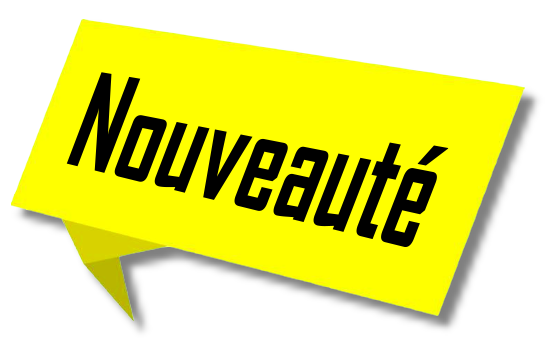
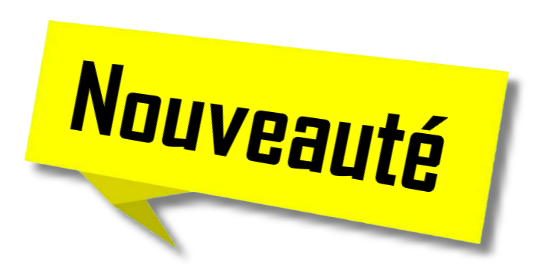
fds

Changed region(s): [[0.0623, 0.0582, 0.9963, 0.9309], [0.0, 0.4073, 0.7473, 0.9309]]

diff --git a/resources/views/boutique.blade.php b/resources/views/boutique.blade.php
@@ -36,7 +36,7 @@
                 @if ($article->stock_actuel > 0 && $article->stock_actuel <= $article->alert_stock || $article->stock_actuel <= 0)
                     <div class="availability-badge @if ($article->stock_actuel > 0 && $article->stock_actuel <= $article->alert_stock) availability-warning @else availability-danger @endif">
                         @if ($article->stock_actuel > 0 && $article->stock_actuel <= $article->alert_stock)
-                                {{$article->stock_actuel}} restants
+                                {{$article->stock_actuel}} restant(s)
                         @elseif ($article->stock_actuel <= 0)
                                 Complet
                         @endif
@@ -121,14 +121,14 @@
 
 .badge-container {
     position: absolute;
-    top: -18px;
-    right: -26px;
+    top: -15px;
+right: -9px;
     z-index: 1;
 }
 
 .new-badge img {
-    width: auto; 
-    height: 71px !important; 
+    width: 100px    !important; 
+    height: auto !important; 
 }
     .container{
     background: #f6f8fa;
@@ -198,7 +198,7 @@
 
     .container .box-container .box h3{
         color:#444;
-        font-size: 24px;
+        font-size: 18px;
         padding:10px 0;
     }
 
@@ -215,6 +215,7 @@
         color: #6C63FF;
         padding: 15px 0;
         margin-bottom: 20px;
+        font-weight: bold;
     }
 
     .container .box-container .box .btn{

diff --git a/resources/views/singleProduct.blade.php b/resources/views/singleProduct.blade.php
@@ -45,7 +45,7 @@
                             <strong>Lieu :</strong>
                             <ul class="location-list">
                                 @foreach($locations as $location)
-                                    <li>{{ $location }}</li>
+                                    <li><a style="color: #182881" href="https://www.google.com/maps/search/{{ urlencode($location) }}" target="_blank">{{ $location }}</a></li>
                                 @endforeach
                             </ul>
                         </div>
@@ -427,9 +427,7 @@
         grid-column: 1 / span 2; /* Cela prend toute la largeur */
     }
 }
-.product-div-right {
-            text-align: justify;
-        }
+
     /* Media queries */
     @media screen and (max-width: 992px) {
         .product-div {

diff --git a/app/Http/Controllers/TraitementSupp.php b/app/Http/Controllers/TraitementSupp.php
@@ -232,7 +232,7 @@ public function boutique($id)
     $saison_active = saison_active();
     
     $articles = Shop_article::getArticlesByCategories($id, $saison_active);
-
+ 
     return view('boutique', compact('articles' ,'breadcrumb' ,'info2' ));
 }
 
